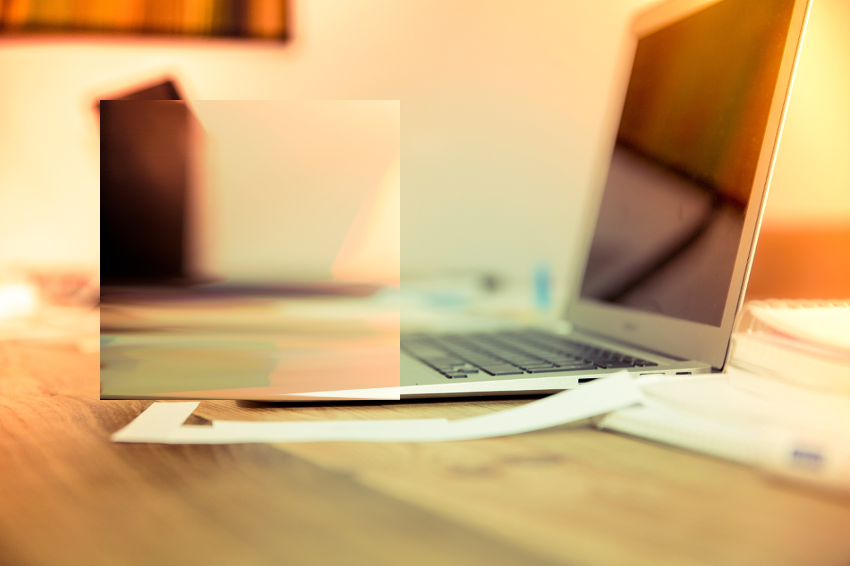
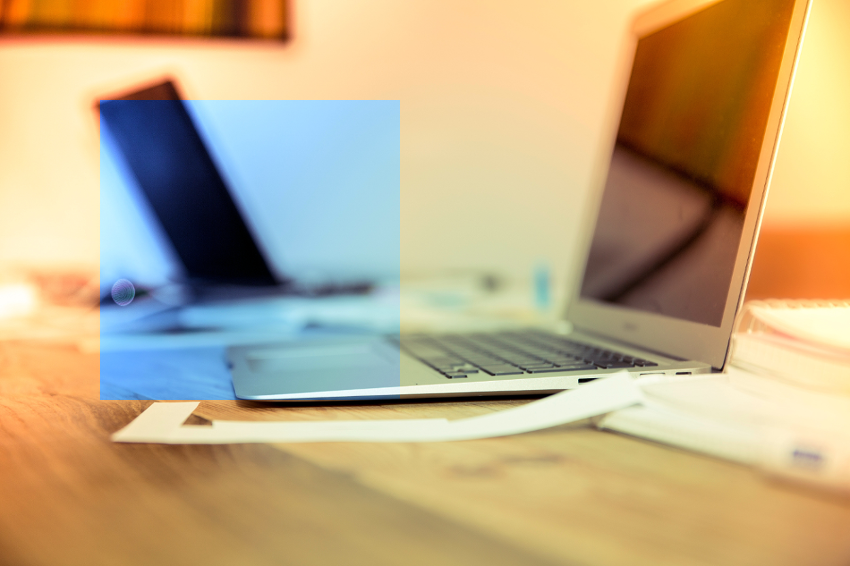
refactor for different box approach

Changed region(s): [[0.0918, 0.1502, 0.4894, 0.7208]]

diff --git a/src/gui.py b/src/gui.py
@@ -1,0 +1,142 @@
+from tkinter import *
+from tkinter.filedialog import askopenfilename
+from PIL import Image, ImageTk
+from typing import Tuple
+
+from pixel_sort import pixel_sort
+import os
+
+# BoxType = Tuple[int, int, int, int]
+
+# Global variables
+abs_img_path: str = None
+# (left, upper, right, lower)
+box = (0, 0, 0, 0)
+img: Image = None
+canvas_image_id = None 
+
+def get_path_from_dialog() -> str:
+    file = askopenfilename(filetypes=[("Image files", ".jpg .jpeg .png")])
+    if not file:
+        return None
+    full_path = os.path.abspath(file)
+    return full_path
+
+def sort_region():
+    global img, canvas_image_id, canvas, box
+    img = pixel_sort(img, box)
+    
+    print(f"Box from sort_region: {box}")
+    # update the Tkinter display with the sorted image
+    updated_img = ImageTk.PhotoImage(img)
+    canvas.itemconfig(canvas_image_id, image=updated_img)
+    
+    # Keep a reference to avoid garbage collection
+    canvas.image = updated_img
+
+# def update_box():
+#     global box, left, right, up, down, root
+#     left_x = left.winfo_x()
+#     right_x = right.winfo_x() + right.winfo_width()
+#     up_y = up.winfo_y()
+#     down_y = down.winfo_y() + down.winfo_height()
+#     box = (int(left_x), int(up_y), int(right_x), int(down_y))
+    
+    
+def create_gui(path: str):
+    if not path:
+        print("No image file selected.")
+        return
+
+    global abs_img_path, img, canvas_image_id, canvas, box
+    global left, right, up, down  # Variables to hold line IDs
+    abs_img_path = path
+    root = Tk()
+
+    btn = Button(root, text="Sort Region", command=sort_region)
+    btn.pack(side="top", fill="x")
+
+    img = Image.open(path)
+    img_width, img_height = img.size
+
+    min_size = 500
+    img_width = max(img_width, min_size)
+    img_height = max(img_height, min_size)
+
+    root.geometry(f"{img_width}x{img_height + 100}")  
+
+    canvas = Canvas(root, width=img_width, height=img_height)
+    canvas.pack(side="top", fill="both", expand="yes")
+
+    background = ImageTk.PhotoImage(img)
+    canvas_image_id = canvas.create_image(0, 0, anchor="nw", image=background)
+    canvas.image = background
+
+    # Line thickness
+    line_thickness = 5  # Set to 1 or adjust as needed for thinner lines
+
+    # Creating draggable lines on the canvas
+    left = canvas.create_line(100, 0, 100, img_height, width=line_thickness, fill="red")
+    right = canvas.create_line(img_width - 100, 0, img_width - 100, img_height, width=line_thickness, fill="blue")
+    up = canvas.create_line(0, 100, img_width, 100, width=line_thickness, fill="red")
+    down = canvas.create_line(0, img_height - 100, img_width, img_height - 100, width=line_thickness, fill="blue")
+
+    # Initial drag data
+    drag_data = {"x": 0, "y": 0, "item": None}
+
+    def drag_start(event):
+        global box
+        drag_data["item"] = canvas.find_closest(event.x, event.y)[0]
+        print(f"I am dragging {drag_data['item']}")
+        
+        drag_data["x"] = event.x
+        drag_data["y"] = event.y
+
+    def drag_motion(event):
+        global box
+        
+        # if(drag_data["item"] == 1):
+        #     # attempting to drag background
+        #     return
+        delta_x = event.x - drag_data["x"]
+        delta_y = event.y - drag_data["y"]
+        # move the object the appropriate amount
+        canvas.move(drag_data["item"], delta_x, delta_y)
+        # record the new position
+        drag_data["x"] = event.x
+        drag_data["y"] = event.y
+        update_box()
+
+    def update_box():
+        global box
+        coords_left = canvas.coords(left)
+        coords_right = canvas.coords(right)
+        coords_up = canvas.coords(up)
+        coords_down = canvas.coords(down)
+        box = (int(coords_left[0]), int(coords_up[1]), int(coords_right[0]), int(coords_down[1]))
+        print(f"Updated box: {box}")
+
+    canvas.tag_bind(left, "<ButtonPress-1>", drag_start)
+    canvas.tag_bind(right, "<ButtonPress-1>", drag_start)
+    canvas.tag_bind(up, "<ButtonPress-1>", drag_start)
+    canvas.tag_bind(down, "<ButtonPress-1>", drag_start)
+
+    canvas.tag_bind(left, "<B1-Motion>", drag_motion)
+    canvas.tag_bind(right, "<B1-Motion>", drag_motion)
+    canvas.tag_bind(up, "<B1-Motion>", drag_motion)
+    canvas.tag_bind(down, "<B1-Motion>", drag_motion)
+
+    root.mainloop()
+
+
+
+def main():
+    path: str = get_path_from_dialog()
+    if path:
+        img = Image.open(path)
+        create_gui(path)
+    else:
+        print("Operation cancelled.")
+
+if __name__ == "__main__":
+    main()

diff --git a/src/pixel_sort.py b/src/pixel_sort.py
@@ -4,19 +4,10 @@ import numpy as np
 
 BoxType = Tuple[int, int, int, int]
 
-def main():
-    
-    box = (100,100,400,400)
-    image: Image = pixel_sort("examples/ex1.png", box)
-    
-    save_image(image)
-    
-    
-    
 
-def pixel_sort(path: str, box: BoxType) -> Image:
-    im = Image.open(path)
-    print(im.format, im.size, im.mode)
+def pixel_sort(im: Image, box: BoxType) -> Image:
+
+    print(f"Box is {box}")
     
     region = im.crop(box)
     
@@ -29,8 +20,7 @@ def pixel_sort(path: str, box: BoxType) -> Image:
 
 def _sort_region(region: Image):
     
-    pixel_arr = np.asarray(region)
-    
+    pixel_arr = np.asarray(region) 
     
     pixel_arr = np.sort(pixel_arr, axis=1)
     
@@ -45,5 +35,5 @@ def save_image(image: Image) -> None:
     image.save(path)
 
 
-if __name__ == "__main__":
-    main()
+# if __name__ == "__main__":
+#     main()
